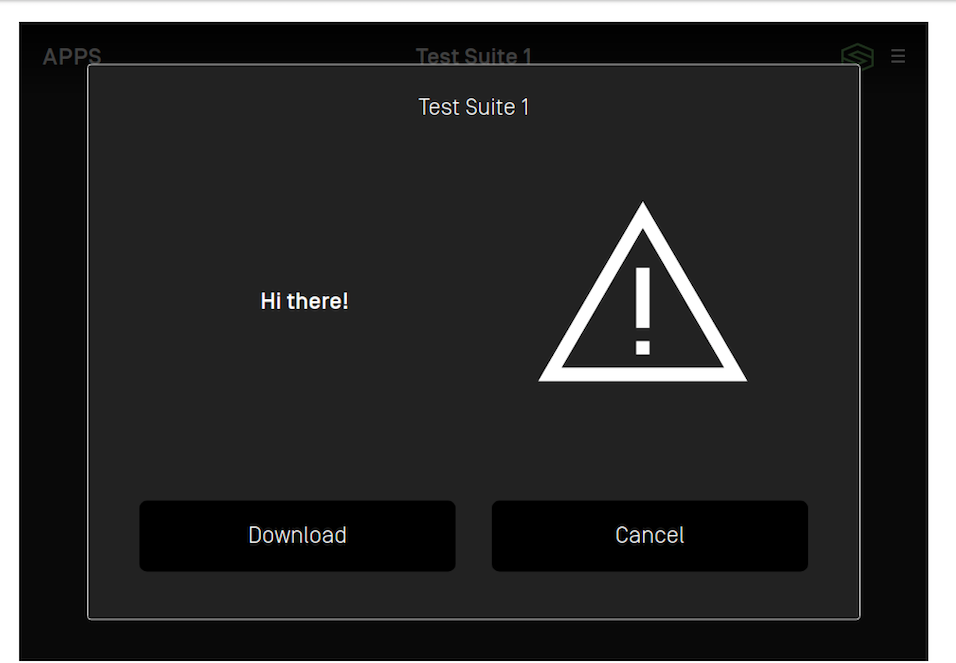
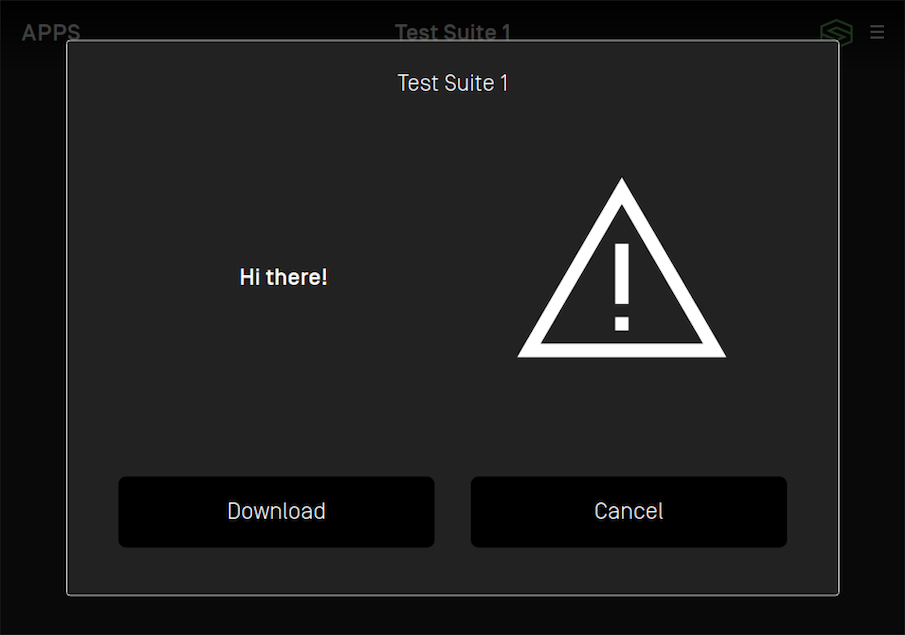
Remove hamburger and crop images

Changed region(s): [[0.0, 0.0, 1.0, 1.0], [0.5569, 0.2693, 0.8044, 0.5984], [0.2475, 0.4189, 0.3713, 0.4787]]

diff --git a/docs/Integrating Your HMI/Developing the HMI UI/index.md b/docs/Integrating Your HMI/Developing the HMI UI/index.md
@@ -116,7 +116,7 @@ The defined strings for each template can be found in the `PredefinedLayout` str
 
 ## Creating the App Menu
 
-Each application is able to maintain a list of menu commands through SDL. This in-app menu should be made accessible from an app's template view. Please note the example placement of the hamburger menu icon in the top right of the screenshot below.
+Each application is able to maintain a list of menu commands through SDL. This in-app menu should be made accessible from an app's template view. Please note the example placement of the menu icon in the top right of the screenshot below.
 
 ![Menu Icon](./assets/menu_circled.jpg)
 
